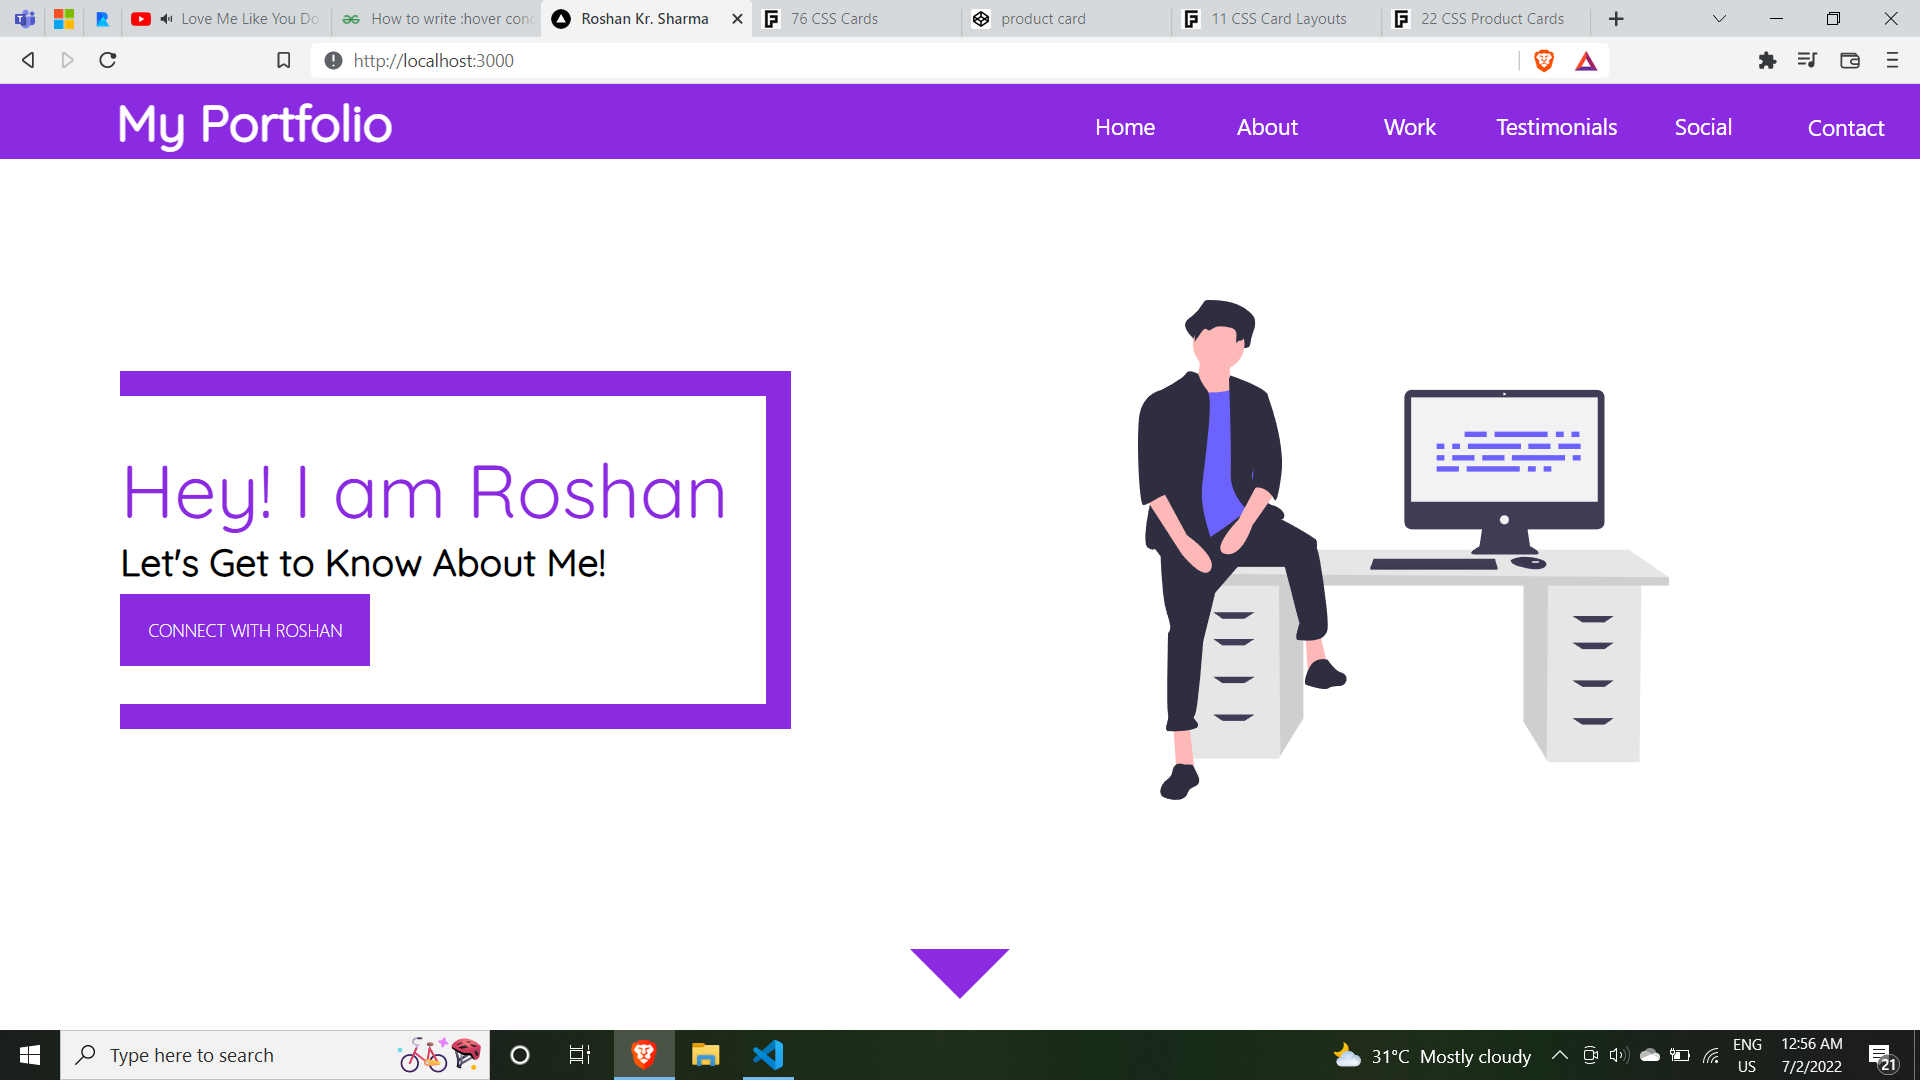
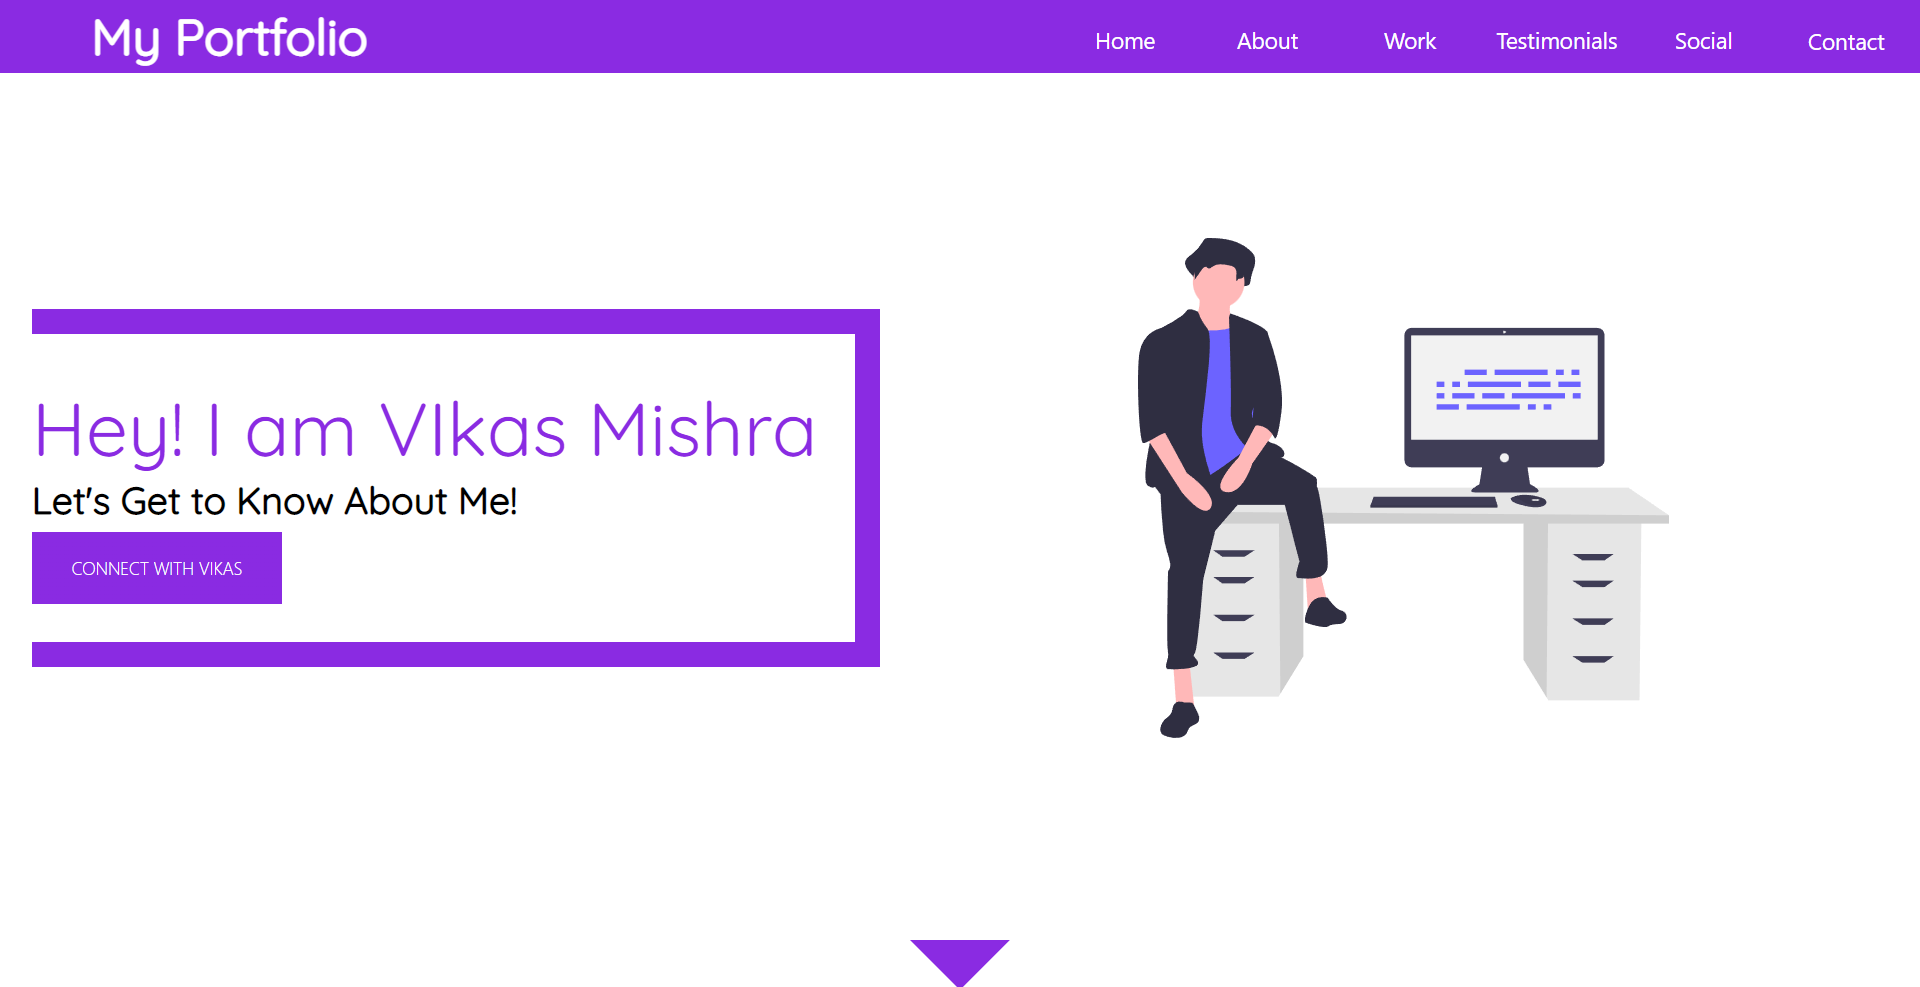
""

diff --git a/src/Components/About/About.jsx b/src/Components/About/About.jsx
@@ -27,7 +27,7 @@ const About = () => {
               <span className="ml">Summary</span>
             </div>
             <div className="aboutSummary">
-              Hey! This is Roshan Sharma I am grateful that you visited my profile 
+              Hey! This is Vikas MIshra I am grateful that you visited my profile 
             </div>
           </div>
         </div>
